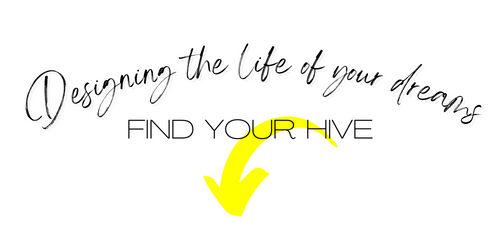
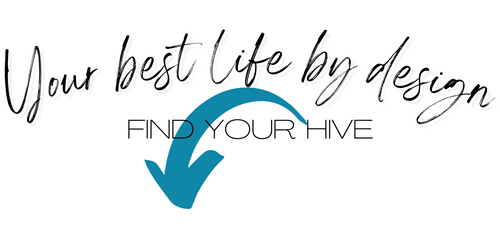
updated main image

Changed region(s): [[0.0, 0.112, 0.99, 0.868], [0.81, 0.14, 0.84, 0.168], [0.66, 0.56, 0.69, 0.588]]

diff --git a/public/index.html b/public/index.html
@@ -30,7 +30,7 @@
       work correctly both with client-side routing and a non-root public URL.
       Learn how to configure a non-root public URL by running `npm run build`.
     -->
-    <title>Queen Bean Design Cafe | Design your best life</title>
+    <title>Queen Bean Design Cafe | Your Best Life By Design</title>
   </head>
   <body>
     <noscript>You need to enable JavaScript to run this app.</noscript>
